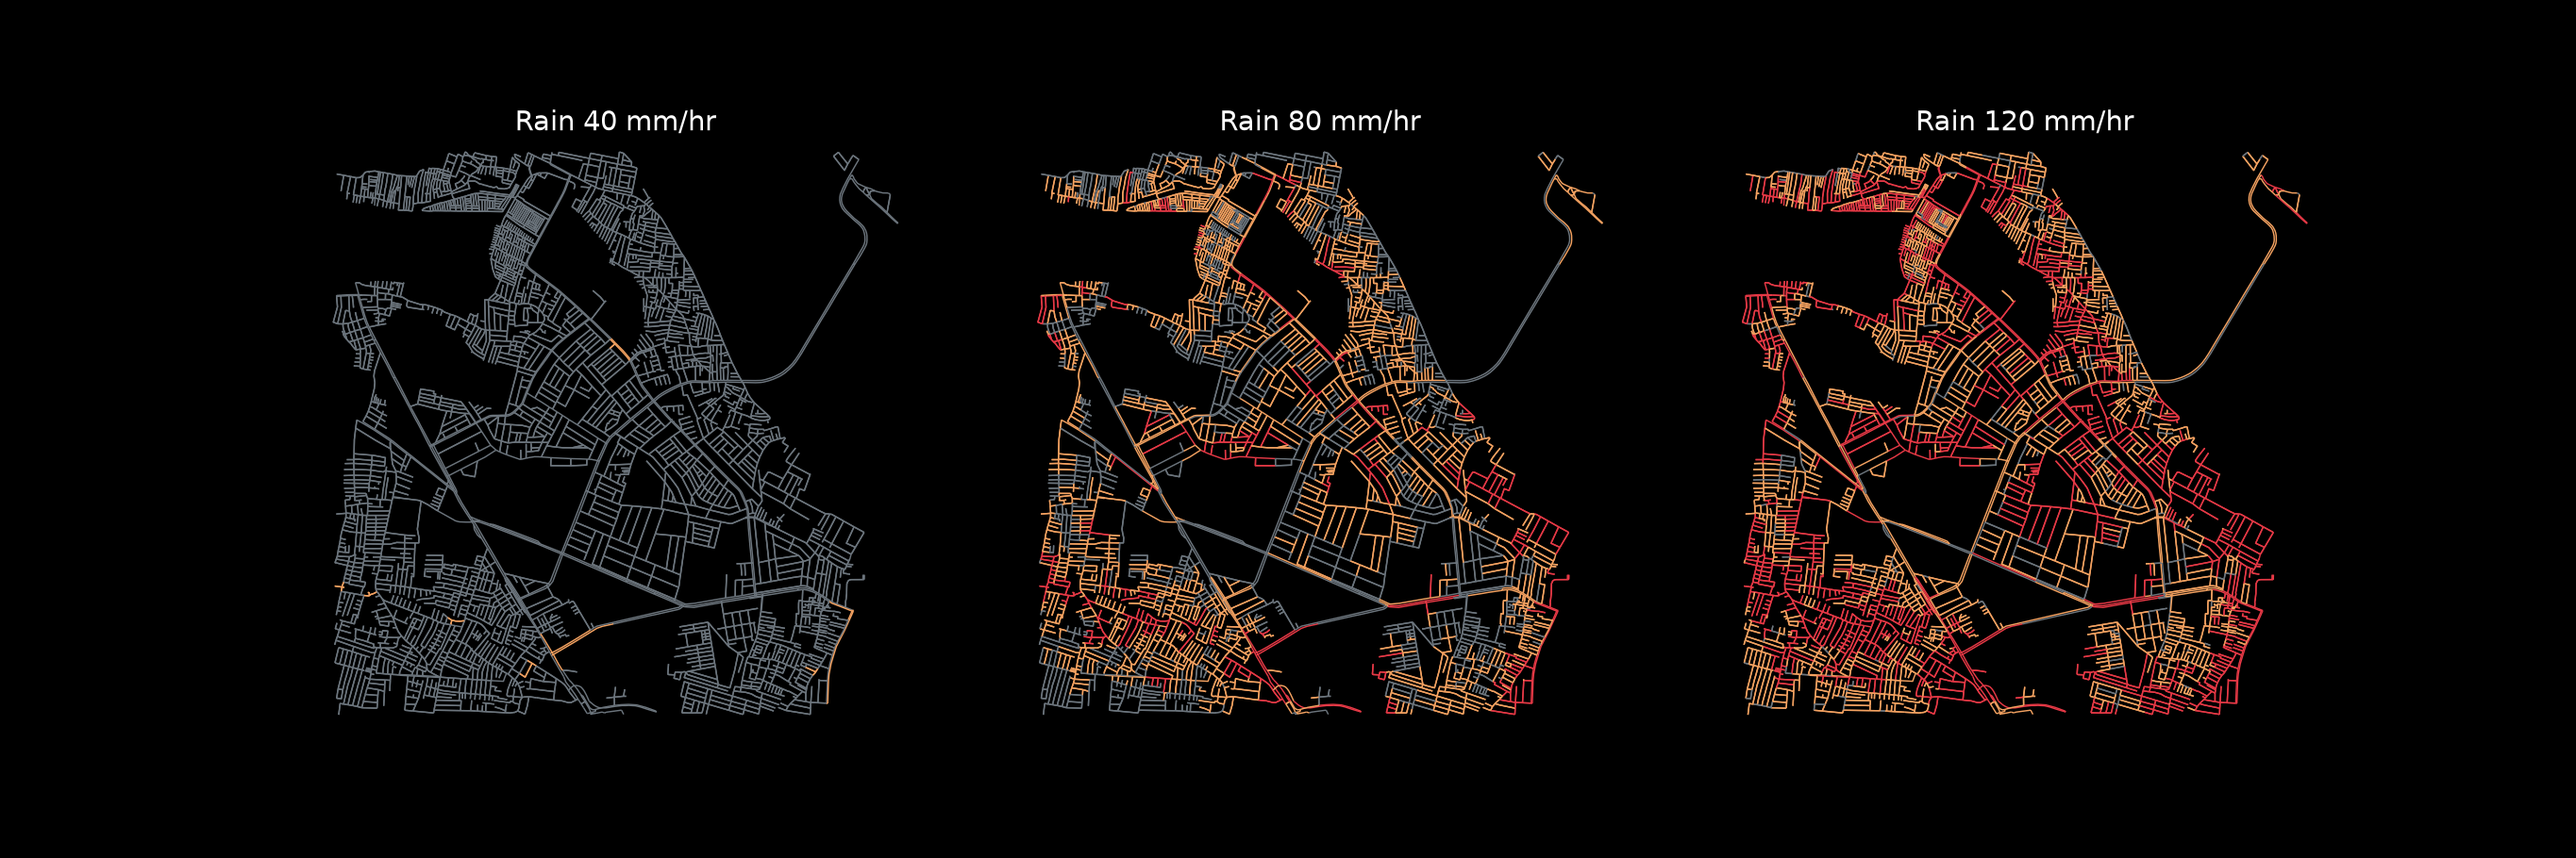
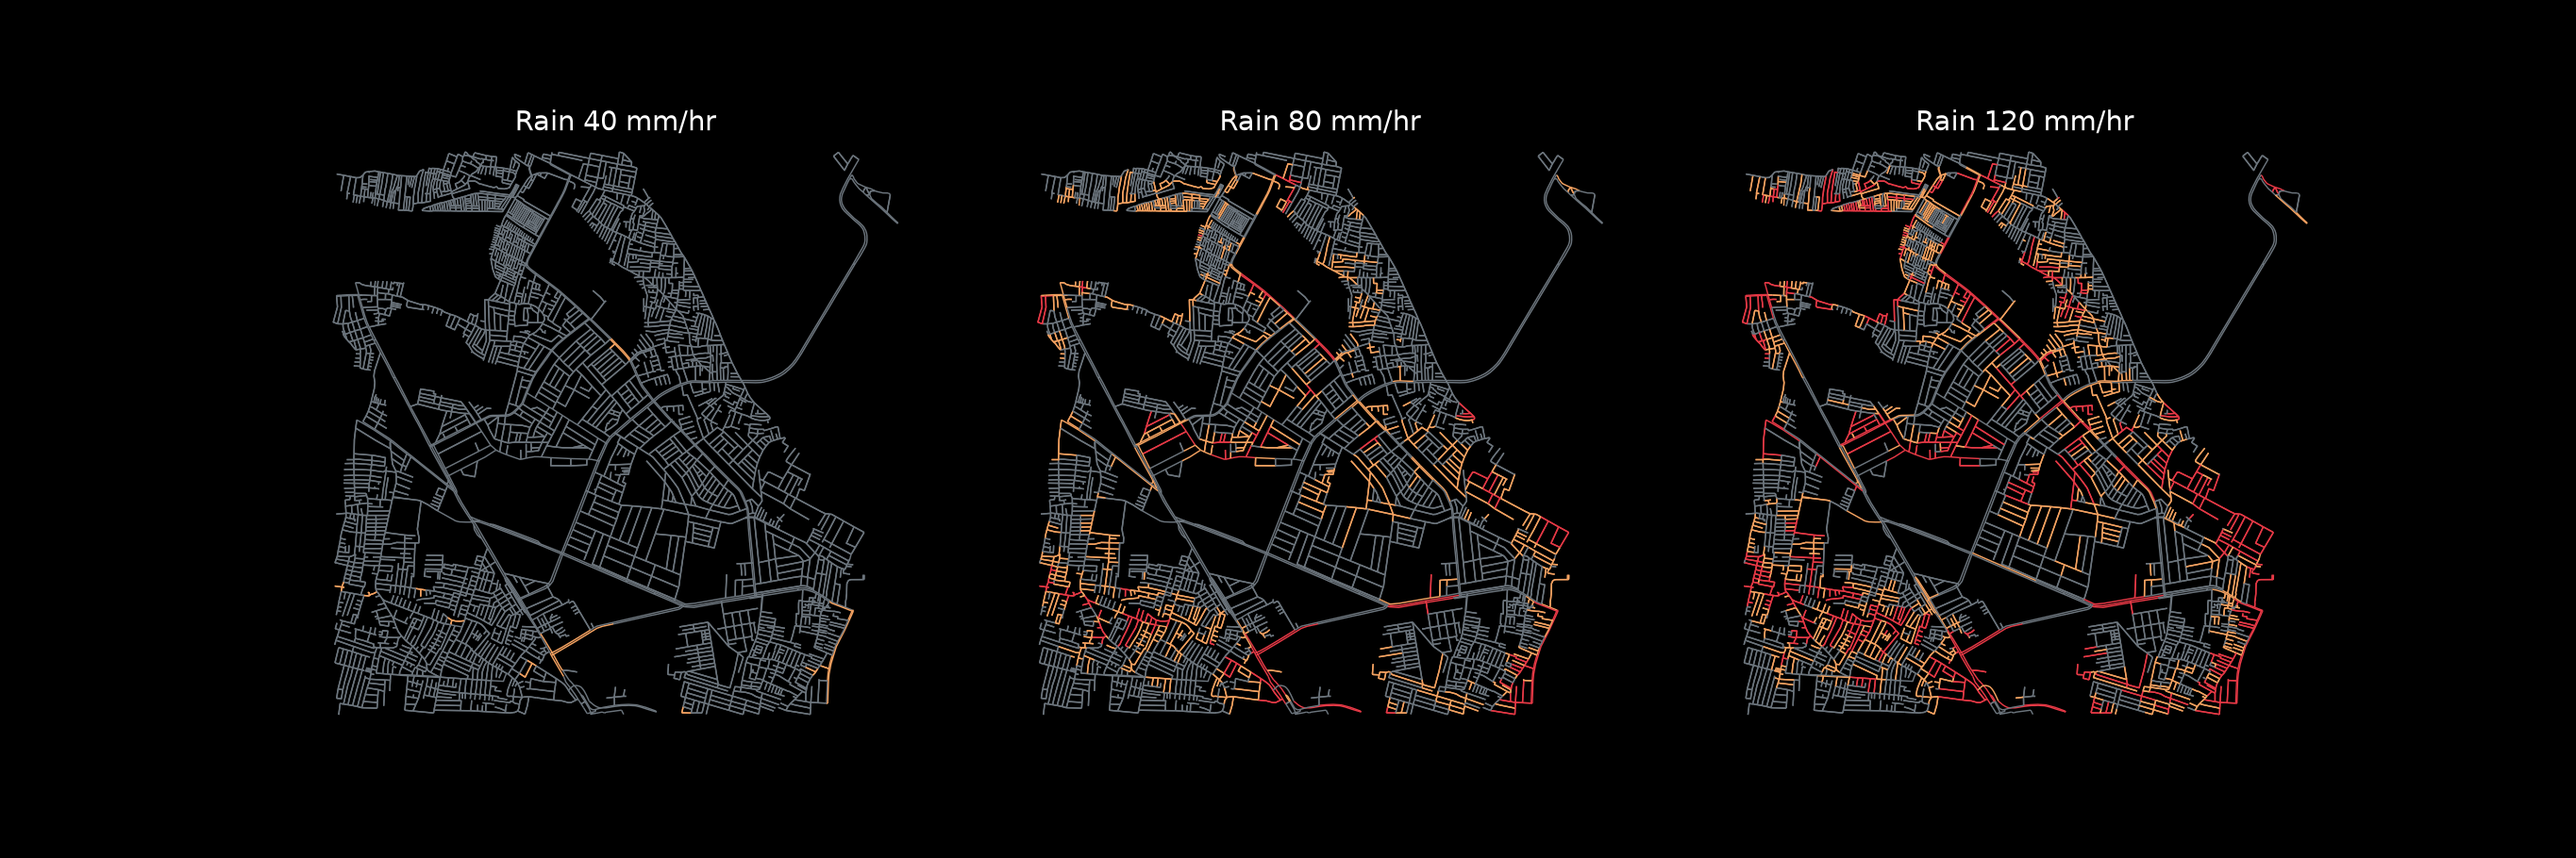
Step 6: traffic model and flood-aware ambulance routing

diff --git a/traffic.py b/traffic.py
@@ -1,0 +1,66 @@
+import ast
+import math
+import networkx as nx
+from flood import edge_depth
+
+SPEEDS = {"motorway": 60, "trunk": 50, "primary": 40, "secondary": 35, "tertiary": 30,
+          "unclassified": 25, "residential": 20, "service": 15, "living_street": 10}
+BASE_LOAD = {"motorway": 0.8, "trunk": 0.8, "primary": 0.75, "secondary": 0.65,
+             "tertiary": 0.5, "unclassified": 0.4, "residential": 0.3,
+             "service": 0.2, "living_street": 0.15}
+
+
+def road_class(data):
+    h = data.get("highway", "residential")
+    if isinstance(h, str) and h.startswith("["):
+        try:
+            h = ast.literal_eval(h)
+        except Exception:
+            pass
+    if isinstance(h, list):
+        h = h[0]
+    return str(h).replace("_link", "")
+
+
+def demand(hour):
+    """Simulated traffic demand: morning (9) and evening (18) peaks."""
+    return 0.4 + 0.9 * math.exp(-((hour - 9) ** 2) / 4) + 0.9 * math.exp(-((hour - 18) ** 2) / 4)
+
+
+def flood_factor(depth_cm):
+    """1 = normal speed, 0 = road impassable."""
+    if depth_cm >= 15:
+        return 0.0
+    if depth_cm <= 3:
+        return 1.0
+    return 1.0 - 0.7 * (depth_cm - 3) / 12
+
+
+def make_routing_graph(g, depths, hour=18, blocked=()):
+    """Copy of the road graph with travel time per road. Flooded or closed roads are removed."""
+    blocked = {frozenset(p) for p in blocked}
+    r = g.copy()
+    for u, v, k, d in list(r.edges(keys=True, data=True)):
+        cls = road_class(d)
+        free_s = float(d["length"]) / (SPEEDS.get(cls, 20) / 3.6)
+        ff = flood_factor(edge_depth(depths, u, v))
+        if ff == 0.0 or frozenset((u, v)) in blocked:
+            r.remove_edge(u, v, k)
+            continue
+        ratio = BASE_LOAD.get(cls, 0.3) * demand(hour) / max(ff, 0.25)
+        d["free_s"] = free_s
+        d["travel_s"] = free_s * (1 + 0.15 * ratio ** 4) / ff   # BPR congestion formula
+    return r
+
+
+def best_route(r, origin, dest):
+    try:
+        path = nx.shortest_path(r, origin, dest, weight="travel_s")
+    except nx.NetworkXNoPath:
+        return None, None, None
+    time_s, length = 0.0, 0.0
+    for a, b in zip(path[:-1], path[1:]):
+        e = min(r[a][b].values(), key=lambda x: x["travel_s"])
+        time_s += e["travel_s"]
+        length += float(e["length"])
+    return path, time_s, length

diff --git a/step6_traffic.py b/step6_traffic.py
@@ -1,0 +1,36 @@
+import matplotlib.pyplot as plt
+import osmnx as ox
+from flood import load_graph, compute_susceptibility, flood_depths, edge_depth
+from traffic import make_routing_graph, best_route
+
+ORIGIN = (12.9400, 77.6350)     # (lat, lon) where the emergency starts (approximate)
+HOSPITAL = (12.9300, 77.6200)   # approximate hospital location
+RAIN, HOUR = 100, 18
+
+g = load_graph()
+susc = compute_susceptibility(g)
+origin = ox.distance.nearest_nodes(g, X=ORIGIN[1], Y=ORIGIN[0])
+dest = ox.distance.nearest_nodes(g, X=HOSPITAL[1], Y=HOSPITAL[0])
+
+dry = {n: 0.0 for n in susc}
+wet = flood_depths(susc, RAIN)
+
+p0, t0, l0 = best_route(make_routing_graph(g, dry, HOUR), origin, dest)
+p1, t1, l1 = best_route(make_routing_graph(g, wet, HOUR), origin, dest)
+
+print(f"Normal route (no rain): {t0/60:.1f} min, {l0/1000:.2f} km")
+hits = sum(1 for a, b in zip(p0[:-1], p0[1:]) if edge_depth(wet, a, b) >= 15)
+print(f"With {RAIN} mm/hr rain the normal route would cross {hits} flooded road segments")
+if p1:
+    print(f"Flood-aware route: {t1/60:.1f} min, {l1/1000:.2f} km")
+else:
+    print("No flood-free route exists")
+
+colors = ["#e63946" if edge_depth(wet, u, v) >= 15 else "#444444" for u, v, k in g.edges(keys=True)]
+fig, ax = ox.plot_graph(g, node_size=0, edge_color=colors, edge_linewidth=0.7,
+                        bgcolor="black", show=False, close=False)
+for path, color in [(p0, "#2a9d8f"), (p1, "#00b4d8")]:
+    if path:
+        ax.plot([g.nodes[n]["x"] for n in path], [g.nodes[n]["y"] for n in path], color=color, linewidth=3)
+plt.savefig("ambulance_routes.png", dpi=150, facecolor="black")
+print("Saved ambulance_routes.png")

diff --git a/flood.py b/flood.py
@@ -56,7 +56,7 @@ def flood_depths(susc, rain_mm_hr, drainage_mm_hr=20.0, boost=None):
     out = {}
     for n, s in susc.items():
         excess = max(0.0, rain_mm_hr - drainage_mm_hr - boost.get(n, 0.0))
-        out[n] = excess * (0.05 + 0.35 * s)
+        out[n] = excess * (0.02 + 0.45 * s ** 1.7)
     return out
 
 
